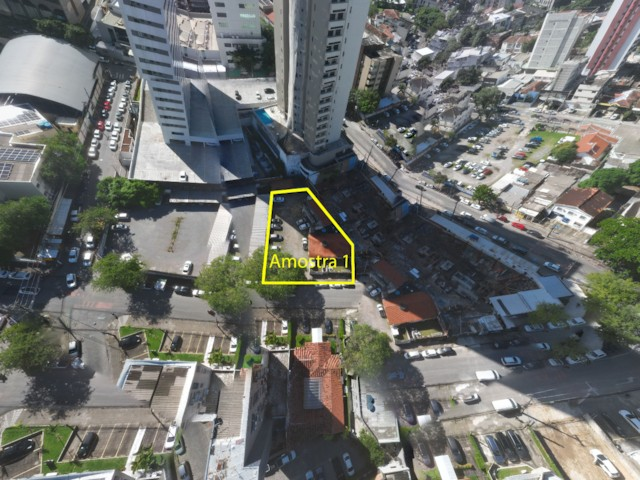
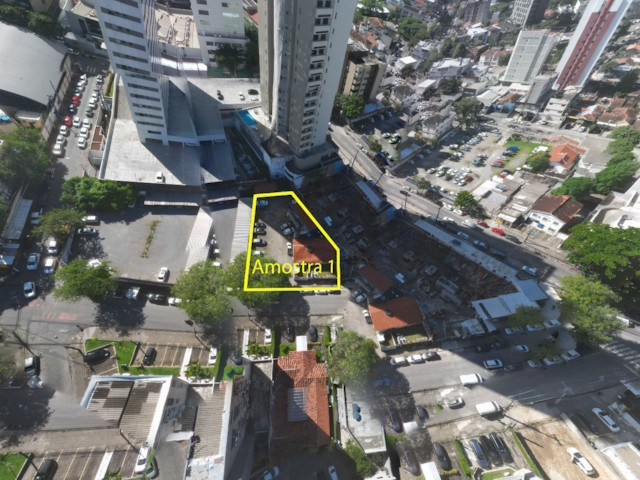
correcao 2

diff --git a/index.html b/index.html
@@ -36,9 +36,9 @@
 	</head>
 	<body>
 <!-- - - - - - - 8<- - - - - - cut here - - - - - 8<- - - - - - - -->
-		<script type="text/javascript" src="pano2vr_player.js?ts=39627751">
+		<script type="text/javascript" src="pano2vr_player.js?ts=41764640">
 		</script>
-		<script type="text/javascript" src="skin.js?ts=39627751">
+		<script type="text/javascript" src="skin.js?ts=41764640">
 		</script>
 		<div id="container" style="width:100%;height:100%;overflow:hidden;">
 		<br>Loading...<br><br>
@@ -89,12 +89,12 @@
 			pano=new pano2vrPlayer("container");
 			pano.startNode = startNode;
 			pano.startView = startView;
-			pano.setQueryParameter("ts=39627751")
+			pano.setQueryParameter("ts=41764640")
 			// add the skin object
 			skin=new pano2vrSkin(pano);
 			// load the configuration
 			window.addEventListener("load", function() {
-				pano.readConfigUrlAsync("pano.xml?ts=39627751");
+				pano.readConfigUrlAsync("pano.xml?ts=41764640");
 			});
 			if (window.navigator.userAgent.match(/Safari/i)) {
 				// fix for white borders, rotation on iPhone

diff --git a/skin.js b/skin.js
@@ -1,7 +1,7 @@
 // Garden Gnome Software - Skin
 // Pano2VR 8.0.1/22530
 // Filename: colodete_skin_amaro2.ggsk
-// Generated 2026-07-08T19:40:08Z
+// Generated 2026-07-08T20:16:03Z
 
 function pano2vrSkin(player,base) {
 	player.addVariable('copiado', 2, false, { ignoreInState: 0  });